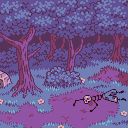
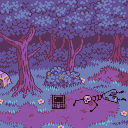
fix room images

Changed region(s): [[0.4062, 0.7188, 0.5312, 0.875], [0.3438, 0.8438, 0.375, 0.875]]

diff --git a/packages/client/src/app/components/canvas/Room.tsx b/packages/client/src/app/components/canvas/Room.tsx
@@ -4,7 +4,6 @@ import styled, { keyframes } from 'styled-components';
 
 import { useVisibility } from 'app/stores';
 import { triggerDialogueModal } from 'app/triggers/triggerDialogueModal';
-import room47Image from 'assets/images/rooms/47_scrap-paths/backgrounds/pretest-a.png';
 import { RoomAsset, rooms } from 'constants/rooms';
 import { Goal } from 'network/shapes/Goal';
 
@@ -71,7 +70,6 @@ export const Room = (props: Props) => {
   // return the background path for now
   // TODO: have this detect time of day based on kamidays (32hrs) and return the correct bg
   const getBackground = () => {
-    if (index === 47 && goals[0].complete) return room47Image; // disgusting hardcoding
     const epoch = getEpoch(Date.now() / 1000);
     return room.backgrounds[epoch];
   };
